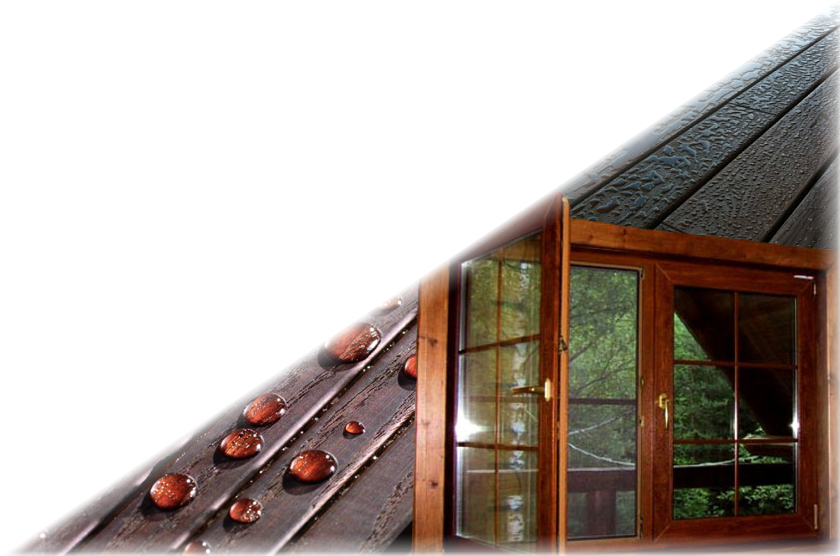
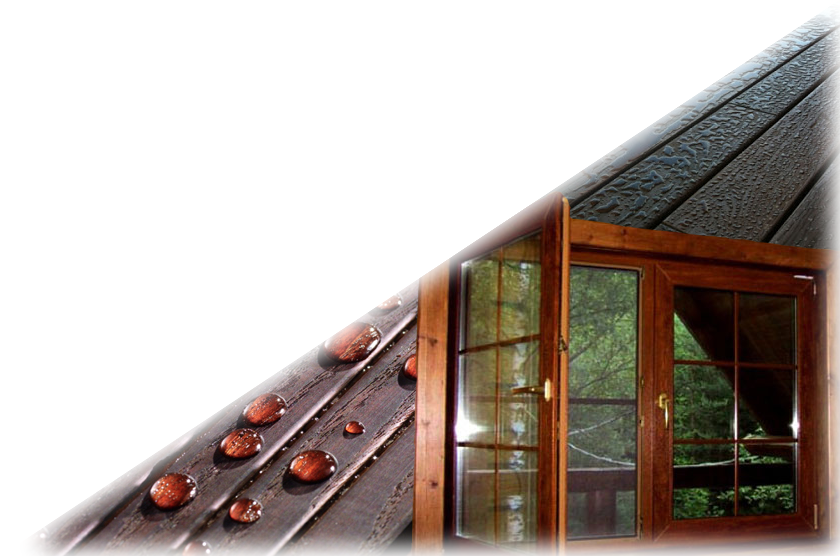
Прописал в мобильной версии картинку у блока уникальное предложение.

Changed region(s): [[0.0, 0.0306, 1.0, 1.0]]

diff --git a/index.html b/index.html
@@ -410,6 +410,7 @@
                     <span>Окна и конструкции из бруса</span>
                     с внешней облицовкой термодревесиной
                 </h1>
+                <img src="/imgs/colaz-mobile.png" class="special-offer__img">
                 <div class="special-offer__desc">
                     Благодаря специальной термической обработке термодревесина приобретает прочность, становится влагостойкой и на её поверхности не образуется плесень. Термодревесина - это современный материал 21 века, который является экологически чистым, а по практичности и долговечности ничем не уступает изделию из пластика
                 </div>

diff --git a/resources/sass/bem/mobile/special-offer.scss b/resources/sass/bem/mobile/special-offer.scss
@@ -56,6 +56,13 @@
             background: transparent;
             min-height: 0;
 
+            .special-offer__img {
+
+                display: block;
+                width: 100%;
+                margin-bottom: 20px;
+            }
+
             .special-offer__desc {
 
                 max-width: none;
@@ -97,6 +104,11 @@
             h1 {
 
                 margin-bottom: 20px;
+            }
+
+            .special-offer__img {
+
+                margin-bottom: 10px;
             }
         }
     }

diff --git a/resources/sass/bem/special-offer.scss b/resources/sass/bem/special-offer.scss
@@ -22,6 +22,11 @@
             }
         }
 
+        .special-offer__img {
+
+            display: none;
+        }
+
         .special-offer__desc {
 
             font-size: 1.5rem;
